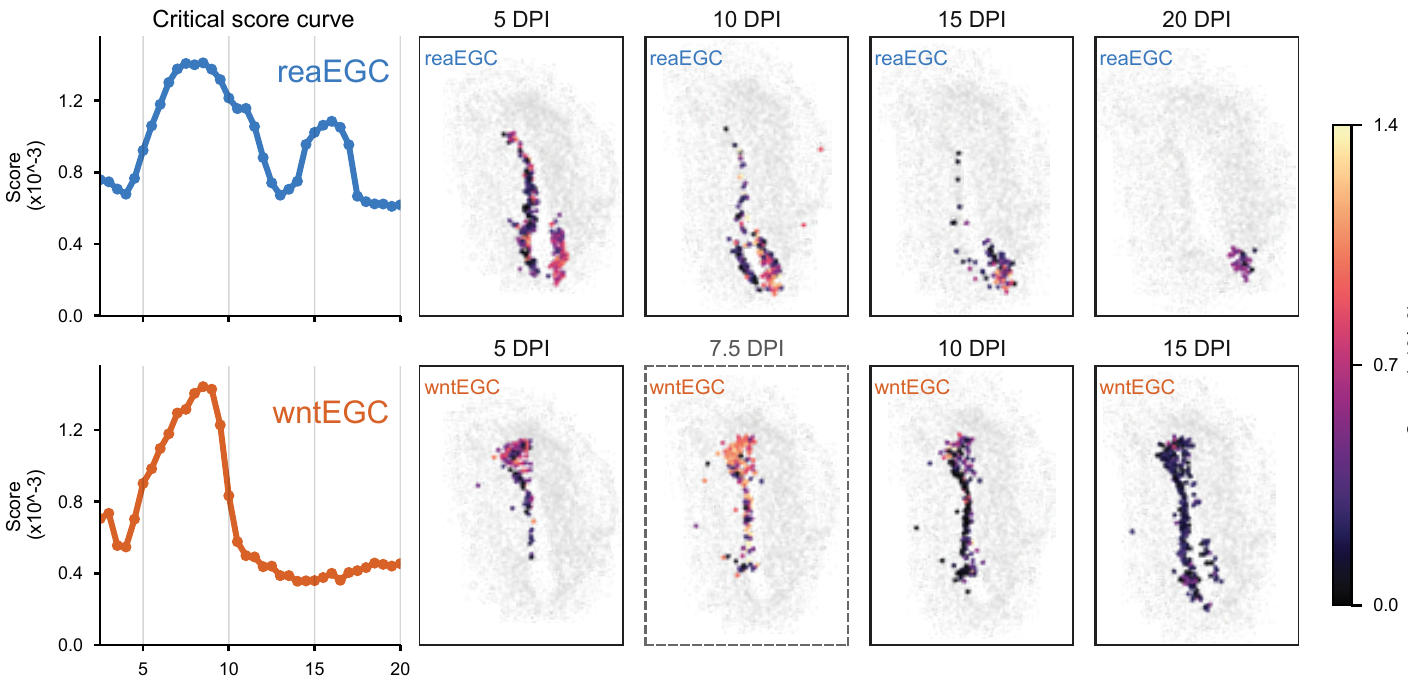
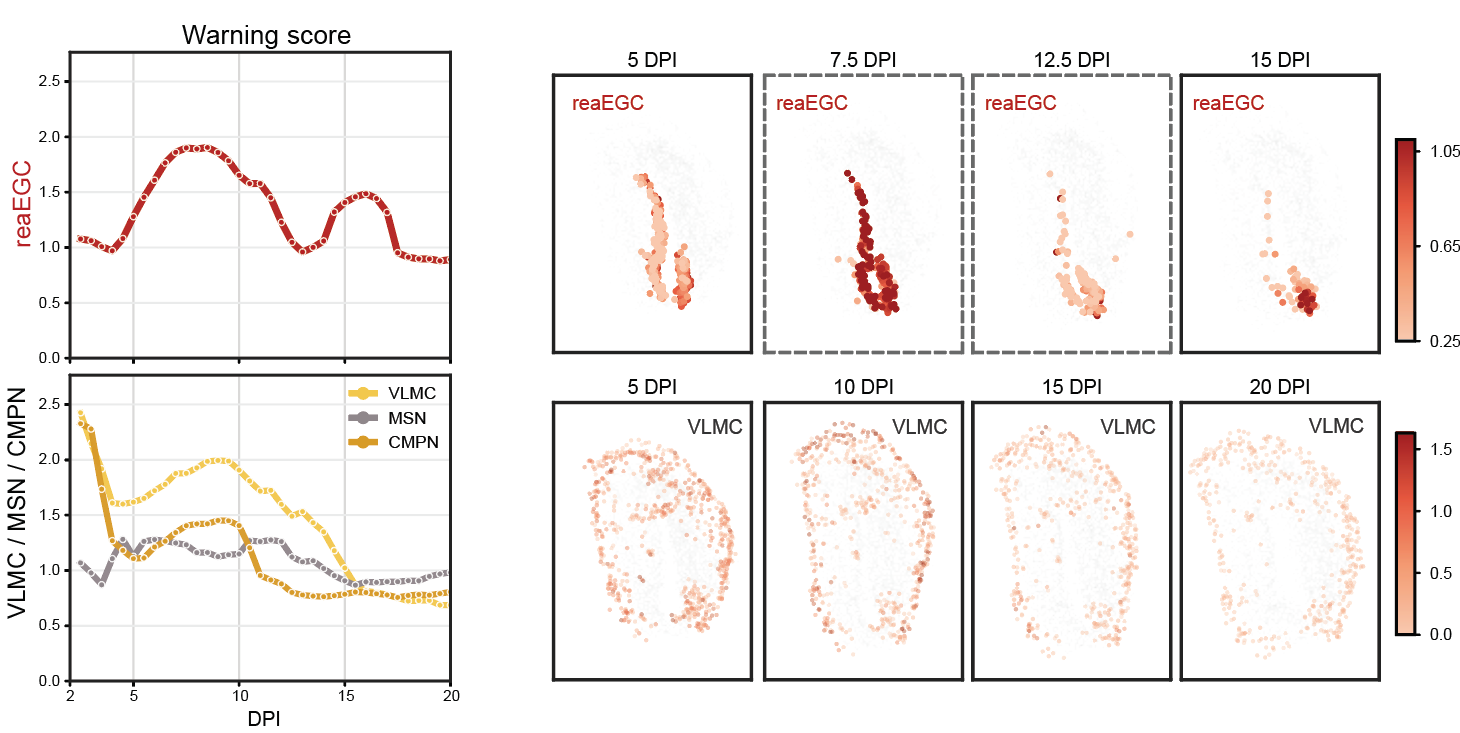
Refine downstream heading and mouse timeline labels

diff --git a/index.html b/index.html
@@ -173,9 +173,9 @@
         <div class="section-inner downstream-grid">
           <div class="section-heading">
             <p class="eyebrow">Downstream interpretation</p>
-            <h2 id="downstream-title">From Generated Dynamics To Biological Readouts</h2>
+            <h2 id="downstream-title">Downstream Biological Readouts</h2>
             <p>
-              SpaPOT downstream analysis turns reconstructed trajectories into biological hypotheses. The final panels can later be replaced with the full downstream figures, while this section keeps the narrative position clear.
+              SpaPOT turns reconstructed trajectories into lineage, critical-window, mechanism, and perturbation readouts.
             </p>
           </div>
           <div class="downstream-panels" aria-label="Downstream analysis panels">
@@ -337,7 +337,7 @@
       </section>
     </main>
 
-    <script src="figure-config.js?v=20260622d"></script>
+    <script src="figure-config.js?v=20260624a"></script>
     <script src="motion-stats.js?v=20260621b"></script>
     <script src="script.js?v=20260622h"></script>
   </body>

diff --git a/figure-config.js b/figure-config.js
@@ -77,7 +77,7 @@ window.SpaPOT_FIGURES = {
       { label: "Frame step", value: "0.05 embryonic day" },
     ],
     timeLabel: "Embryonic time",
-    timepoints: ["E12.5", "E13.0", "E13.5", "E14.0", "E14.5", "E15.0", "E15.5", "E16.0", "E16.5"],
+    timepoints: ["E12.5", "E13.5", "E14.5", "E15.5", "E16.5"],
   },
   figure4: {
     kicker: "Figure 4",